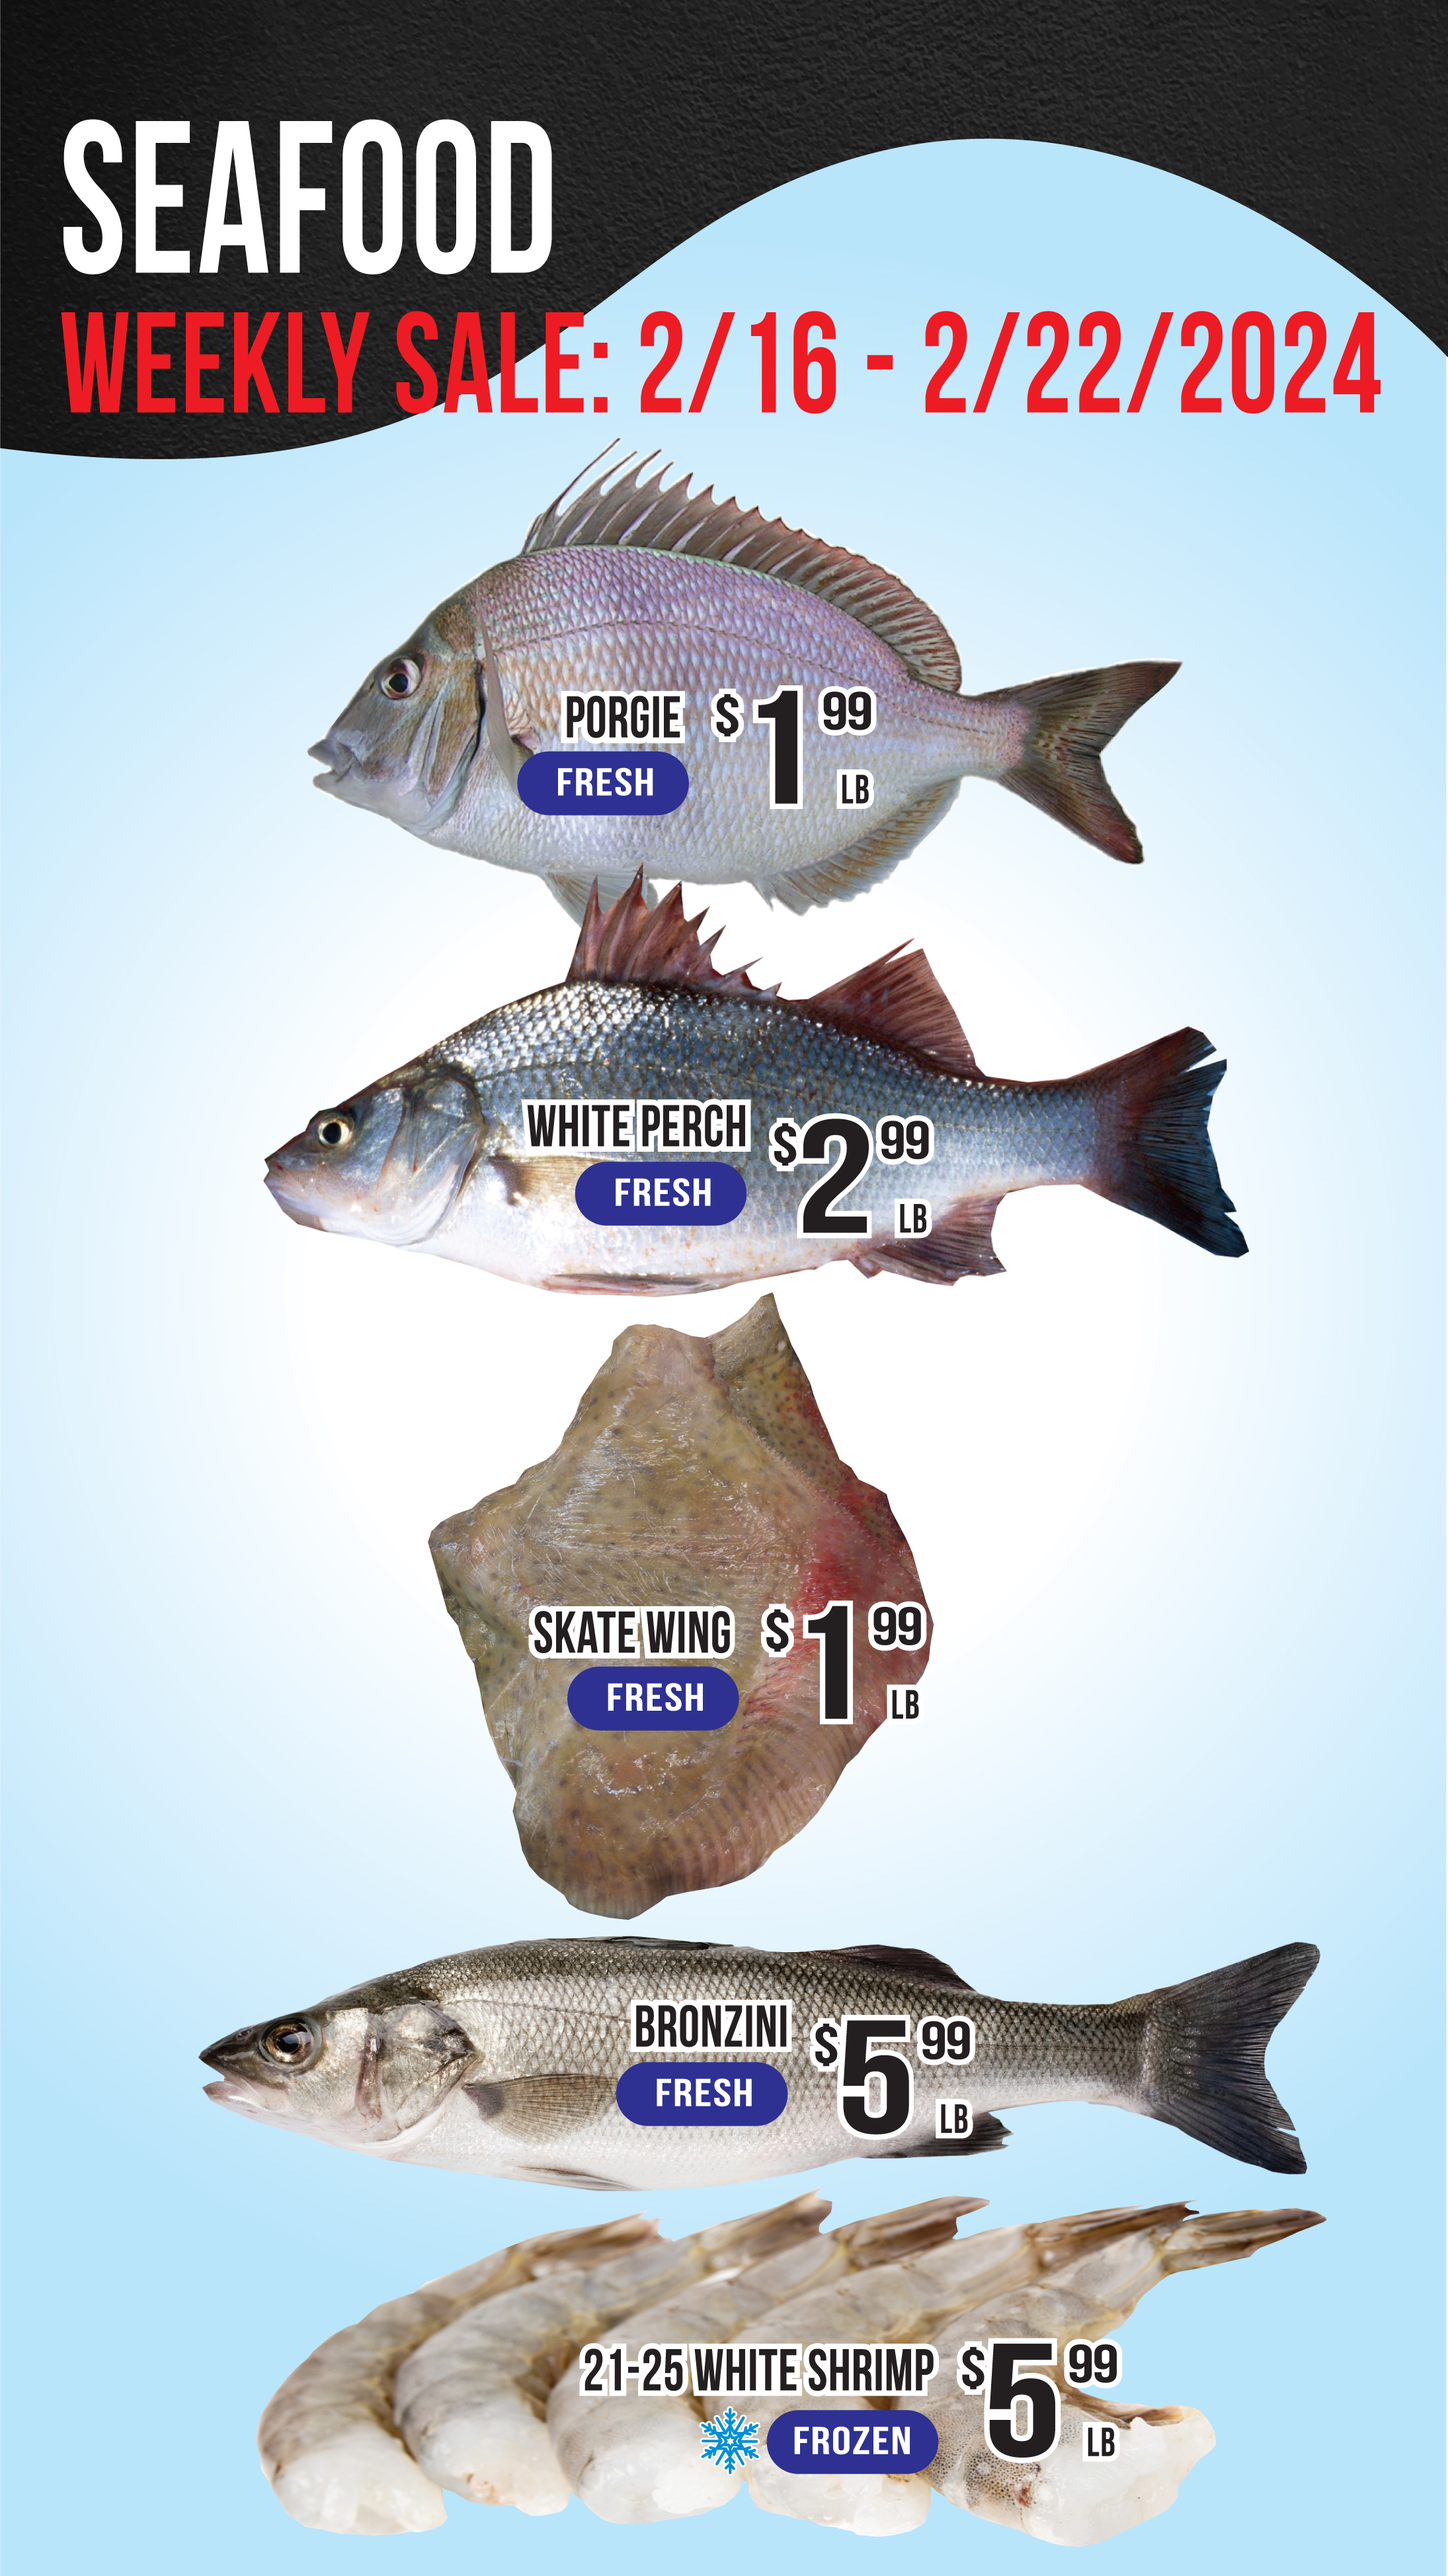
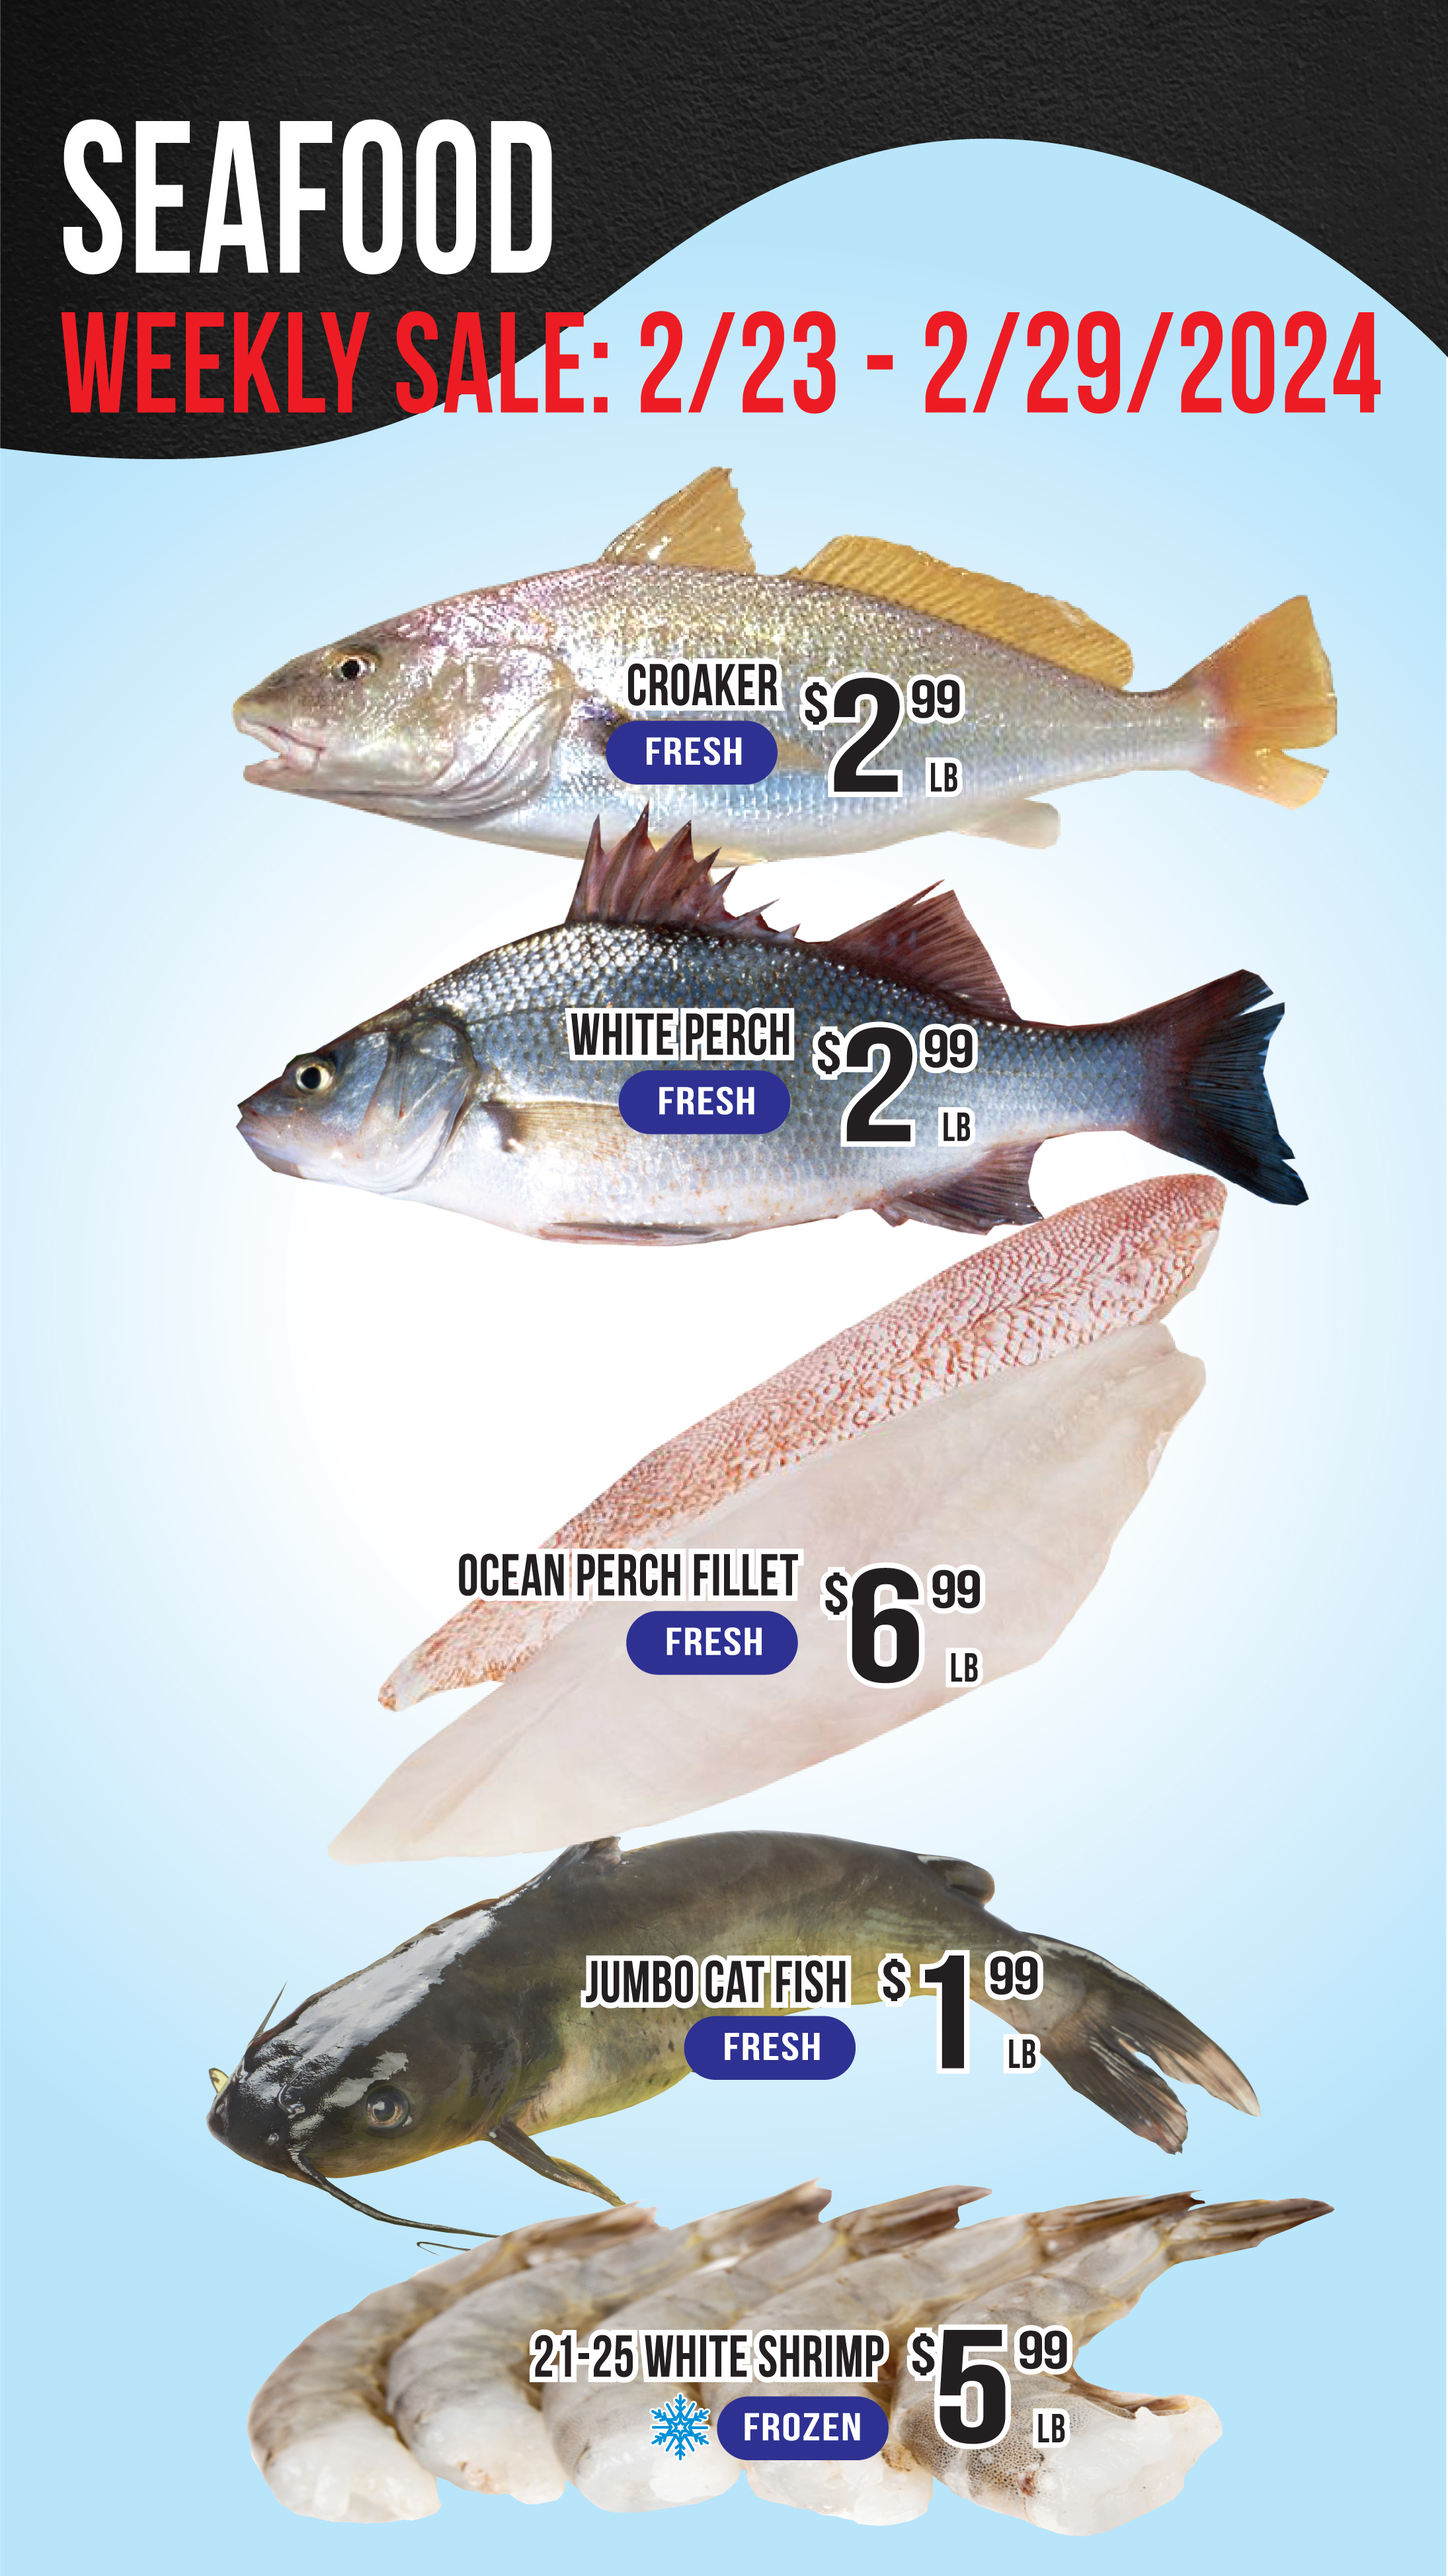
weekly deals

diff --git a/index.html b/index.html
@@ -64,16 +64,16 @@
           <img src="./public/assets/sp.jpg" class="d-block w-100 img-fluid" alt="...">
         </div> -->
         <div class="carousel-item center-carousel active">
-          <img src="./public/assets/weekly/meat.jpg?v=021624" class="img-fluid" alt="...">
+          <img src="./public/assets/weekly/meat.jpg?v=022324" class="img-fluid" alt="...">
         </div>
         <div class="carousel-item center-carousel">
-          <img src="./public/assets/weekly/veg.jpg?v=021624" class="img-fluid" alt="...">
+          <img src="./public/assets/weekly/veg.jpg?v=022324" class="img-fluid" alt="...">
         </div>
         <div class="carousel-item center-carousel">
-          <img src="./public/assets/weekly/fish.jpg?v=021624" class="img-fluid" alt="...">
+          <img src="./public/assets/weekly/fish.jpg?v=022324" class="img-fluid" alt="...">
         </div>
         <div class="carousel-item center-carousel">
-          <img src="./public/assets/weekly/grocery.jpg?v=021624" class="img-fluid" alt="...">
+          <img src="./public/assets/weekly/grocery.jpg?v=022324" class="img-fluid" alt="...">
         </div>
         <!-- <div class="carousel-item center-carousel">
           <img src="./public/assets/sale/grocery2.jpg?v=070623" class="img-fluid" alt="...">
